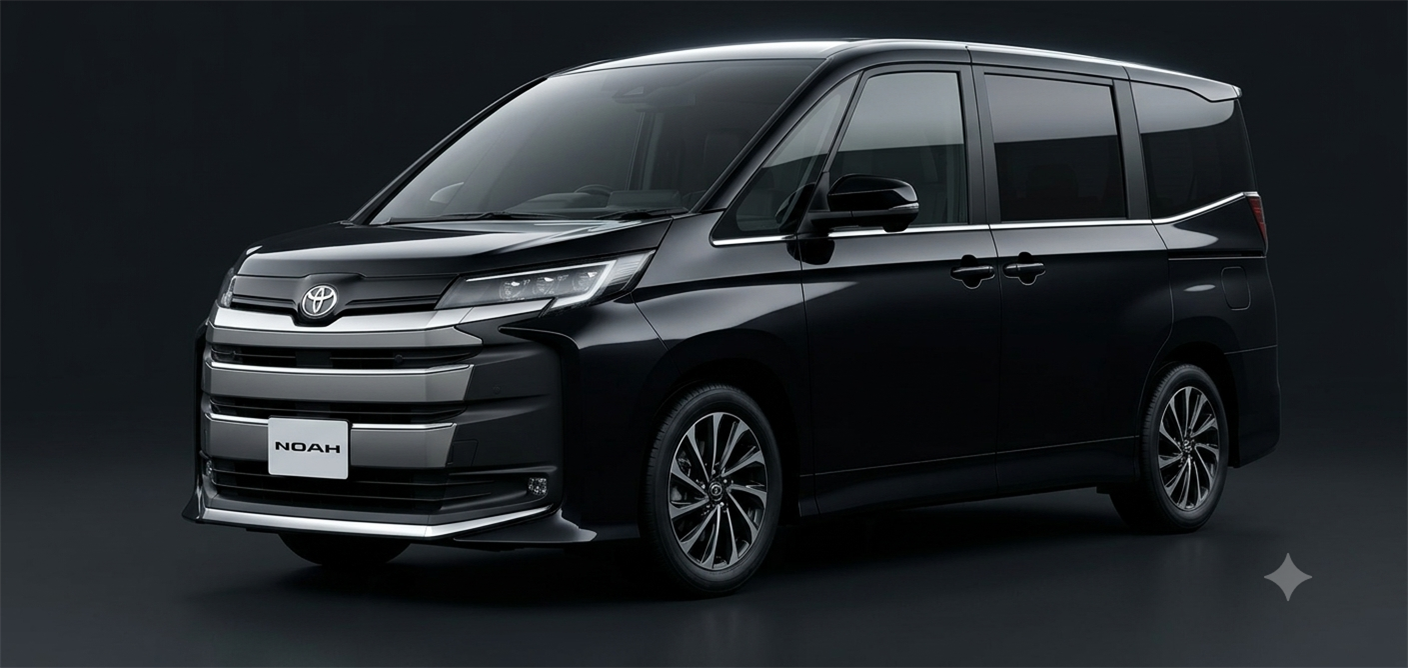
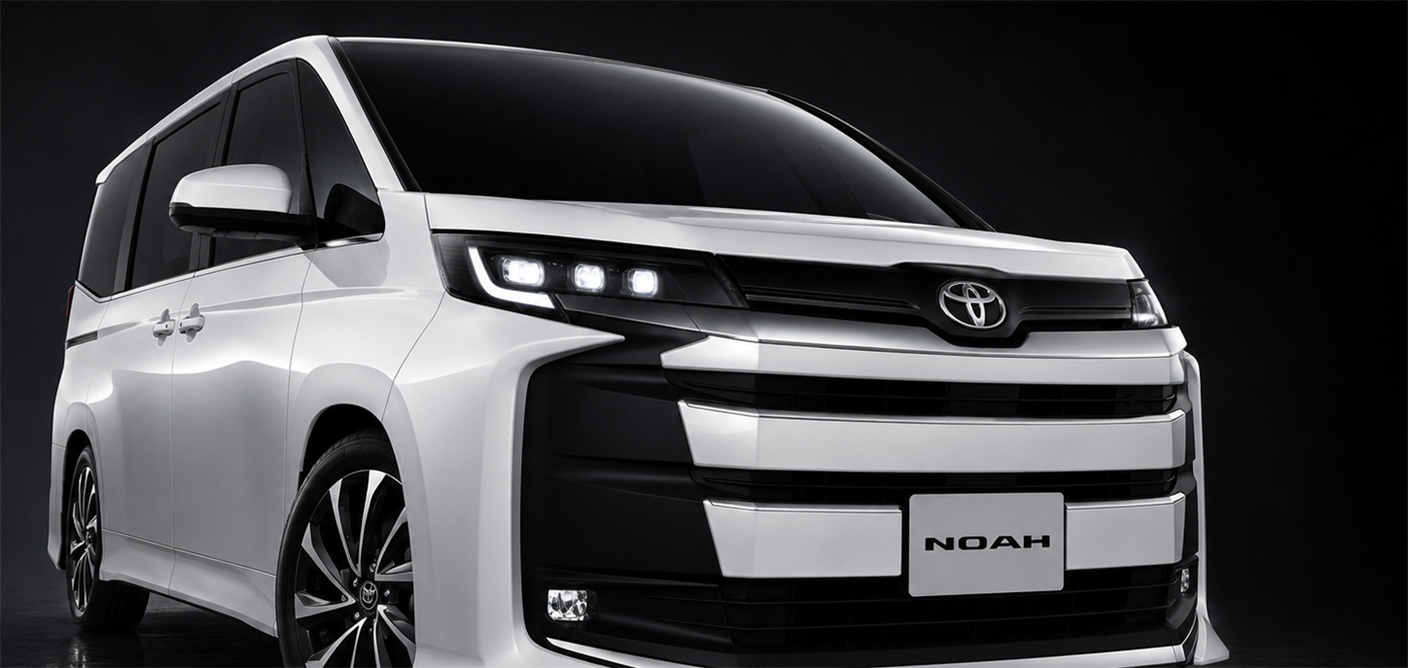
feat: add Vellfire, refresh hero photos, fix VOXY 70系 image, set prod SEO origin
- Add Vellfire (Toyota, Luxury minivan cluster alongside Alphard): 3
  generations (20系/30系/40系), Design Identity sourced from Toyota's
  own official contrast against Alphard ("アグレッシブさの追求" vs
  Alphard's "真のラグジュアリー追求"), added to Home/compare/design
  docs via the existing auto-discovery engine.
- Replace VOXY/Alphard/NOAH/SERENA/STEPWGN hero photos with new
  higher-quality renders.
- Replace VOXY 70系 (gen2) generation photo.
- Point vite.config.js's SITE_ORIGIN at the live Vercel deployment
  instead of the placeholder domain, so canonical/OGP tags resolve
  correctly until a custom domain is set up.

diff --git a/src/cars/vellfire.js b/src/cars/vellfire.js
@@ -1,0 +1,132 @@
+// Pure data. No imports, no logic, no DOM -- this file describes one
+// vehicle and nothing else. All rendering/interaction lives in
+// src/car-page.js; the bootstrap that wires this data into it lives
+// in src/entries/vellfire.js.
+//
+// All facts below (periods, model codes, dimensions, design/facelift
+// content) are drawn from official Toyota catalogs, press releases,
+// and other reliable public sources -- no invented specs. Chassis
+// codes/years verified via goo-net/GAZOO/Toyota FAQ and dealer/press
+// coverage; the 2025-01 facelift (8-seat X grade, PHEV Executive
+// Lounge) matches the "VELLFIRE PHEV" badge visible on the real hero
+// photo used for this vehicle.
+//
+// Annotation x/y/labelX coordinates were tuned against this vehicle's
+// actual generated photos (public/images/cars/vellfire/), following
+// the same front-3/4 composition as Alphard/VOXY.
+const generations = [
+  {
+    numeral: 'I',
+    era: '初代',
+    title: '20系',
+    code: 'ANH20W',
+    startYear: '2008',
+    yearRange: '2008–2015',
+    period: '2008年〜2015年',
+    image: '/images/cars/vellfire/gen1-2008.png',
+    annotations: [
+      { x: 24, y: 46, label: 'メッキ主体の押し出し感のあるグリル', dir: 'bottom', labelX: 24 },
+      { x: 58, y: 14, label: '直線的で張りのあるグリーンハウス', dir: 'top', labelX: 60 },
+    ],
+    facelift: {
+      fromYear: '2008', toYear: '2011',
+      points: ['フロントグリルとバンパーのデザインを一新', 'メッキガーニッシュとグリル下部にダクトを追加', 'より力強い印象のフロントフェイスに刷新'],
+    },
+  },
+  {
+    numeral: 'II',
+    era: '2代目',
+    title: '30系',
+    code: 'AGH30W',
+    startYear: '2015',
+    yearRange: '2015–2023',
+    period: '2015年〜2023年',
+    image: '/images/cars/vellfire/gen2-2015.png',
+    annotations: [
+      { x: 20, y: 48, label: '大型グリルと一体化したヘッドランプ', dir: 'bottom', labelX: 20 },
+      { x: 50, y: 20, label: '鋭く抜けるキャラクターライン', dir: 'top', labelX: 52 },
+    ],
+    facelift: {
+      fromYear: '2015', toYear: '2018',
+      points: ['フロントグリルを縦基調のメッキ加飾グリルに刷新', 'ヘッドライトを薄型のシャープなデザインに変更', 'より個性の際立つ表情に一新'],
+    },
+  },
+  {
+    numeral: 'III',
+    era: '現行モデル',
+    title: '40系',
+    code: '5BA-TAHA40W',
+    startYear: '2023',
+    yearRange: '2023–現在',
+    period: '2023年〜現在',
+    image: '/images/cars/vellfire/gen3-2023.png',
+    annotations: [
+      { x: 22, y: 45, label: '立体的で鋭さのあるダイヤモンドグリル', dir: 'bottom', labelX: 22 },
+      { x: 56, y: 16, label: '逆スラント基調のフロントフェイス', dir: 'top', labelX: 58 },
+    ],
+    facelift: {
+      fromYear: '2023', toYear: '2025',
+      note: '今回の改良では、乗車定員とパワートレインを中心にアップデート。',
+      points: ['Xグレードに8人乗り仕様を追加', '最上級グレードにPHEV(プラグインハイブリッド)を新設定', 'V2H対応で非常用電源としても活用可能に'],
+    },
+  },
+]
+
+export default {
+  eyebrow: 'CARVISTA',
+  vehicleName: 'Vellfire',
+  brand: 'トヨタ',
+  maker: 'Toyota', // English, for grouping cards on the Home page (see src/home.js) -- CSS uppercases it for display
+  order: 6, // Home page display order across Featured Cars + All Cars -- lower shows first
+  // Featured Cards is a curated "start here" set, not every vehicle --
+  // All Cars is the complete catalog regardless of this flag.
+  featured: true,
+  // CarVista Design Identity -- see docs/brand/design-identity.md.
+  // Sourced directly from Toyota's own contrast between the two
+  // Alphard-platform siblings: "ヴェルファイアが掲げるコンセプトは、
+  // 上質さとアグレッシブさの追求...アルファードは、真のラグジュアリー
+  //追求をコンセプトに掲げています" -- Vellfire's own official grade
+  // copy adds "より個性の際立ったエクステリアデザイン" for its
+  // black-and-metallic-accent styling. This is the Luxury minivan
+  // cluster's one sibling pair (see design-identity.md's cluster
+  // table), and the strongest possible source for both vehicles'
+  // Avoid lists at once -- same pattern as NOAH/VOXY.
+  designRole: 'The bold alternative.',
+  designIdentity: ['Bold', 'Aggressive', 'Individual'],
+  // Direct mirror of Alphard's own Design Identity (Presence/Luxury/
+  // Dignified) -- the strongest possible source per design-identity.md's
+  // Avoid-list rule 3 (an official source contrasting the two vehicles
+  // directly), not an invented opposite.
+  designAvoid: ['Elegant', 'Dignified', 'Formal'],
+  // Fixed across every generation's image -- see
+  // docs/brand/design-identity.md. The current (40系) generation ships
+  // in only two colors, Black (no-cost/standard) and Platinum White
+  // Pearl Mica (paid) -- Black is chosen both for being the standard
+  // color and because sourced coverage describes it as conveying
+  // "力強さと高級感" (boldness), matching this vehicle's
+  // Bold/Aggressive register better than the white option would.
+  // "Z Premier" is the mainstream signature-face grade, distinct from
+  // the cabin-focused Executive Lounge halo trim -- same reasoning
+  // Alphard's own representativeGrade choice already applies.
+  representativeGrade: 'Z Premier',
+  representativeColor: 'Black',
+  // Current (40系) generation's approx. overall length -- see
+  // docs/brand/design-identity.md's "What Reference Length is".
+  // Vellfire shares its platform with Alphard and is Toyota's own
+  // official press/spec figure for the current generation (slightly
+  // longer than Alphard's 4945mm due to a deeper front bumper/grille).
+  // Internal production metadata only -- never render this as a spec
+  // on the page.
+  referenceLengthMm: 4995,
+  tagline: 'かたちは、時代を語る。',
+  heroImage: '/images/cars/vellfire/hero-gen3-3q.png',
+  // Drives <title>/description/canonical/OGP/Twitter -- see the
+  // seo-inject plugin in vite.config.js. Nothing else in this page's
+  // <head> is hand-written.
+  seo: {
+    title: 'Vellfire 歴代モデル一覧 — CarVista',
+    description: 'トヨタ ヴェルファイア全3世代を画像で比較。型式・販売期間・デザインの進化が一目でわかる。',
+  },
+  defaultIndex: 2,
+  generations,
+}

diff --git a/cars/vellfire.html b/cars/vellfire.html
@@ -1,0 +1,93 @@
+<!doctype html>
+<html lang="ja">
+  <head>
+    <meta charset="UTF-8" />
+    <meta name="viewport" content="width=device-width, initial-scale=1.0, viewport-fit=cover" />
+    <meta name="theme-color" content="#0b0c0e" />
+    <link rel="icon" type="image/svg+xml" href="/favicon.svg" />
+    <!-- title/description/canonical/OGP/Twitter/JSON-LD are injected at
+         build+dev time by the seo-inject Vite plugin (see vite.config.js),
+         sourced from src/cars/vellfire.js's `seo` field. Do not hand-add
+         them here -- edit the data file instead. -->
+  </head>
+  <body>
+    <!-- CarVista shared vehicle-page skeleton. This structure is
+         identical across every vehicle page (VOXY, Alphard, ...) --
+         all content comes from src/cars/<vehicle>.js (pure data) via
+         src/entries/<vehicle>.js (bootstrap) and src/car-page.js (the
+         engine). To add a new vehicle: copy this file, change only
+         <head> (title/description/OGP/JSON-LD/canonical) and the
+         closing <script src>. Do not hand-edit anything inside <main>. -->
+    <main id="car-page">
+      <header class="hero">
+        <img class="hero-image" id="hero-image" alt="" />
+        <div class="hero-vignette"></div>
+        <div class="hero-copy">
+          <p class="eyebrow" id="hero-eyebrow"></p>
+          <h1 id="hero-title"></h1>
+          <p class="tagline" id="tagline"></p>
+        </div>
+      </header>
+
+      <div class="heritage" id="heritage" aria-hidden="true"></div>
+
+      <nav class="timeline" id="timeline" aria-label="世代を選択"></nav>
+
+      <section class="detail" id="detail" aria-live="polite">
+        <div class="detail-visual">
+          <div class="detail-image-wrap">
+            <img class="detail-image" id="detail-image" alt="" />
+            <div class="detail-dots" id="detail-dots"></div>
+          </div>
+          <div class="detail-callouts" id="detail-callouts"></div>
+        </div>
+        <div class="detail-info">
+          <div class="detail-text">
+            <p class="detail-eyebrow"><span id="detail-numeral"></span><span class="detail-dot">・</span><span id="detail-era"></span></p>
+            <h2 id="detail-title"></h2>
+            <p class="detail-meta"><span id="detail-code"></span><span class="detail-dot">・</span><span id="detail-period"></span></p>
+          </div>
+          <div class="facelift" id="facelift">
+            <button class="facelift-toggle" id="facelift-toggle" type="button" aria-expanded="false" aria-controls="facelift-list">
+              <span id="facelift-from-year"></span>
+              <span class="facelift-arrow">→</span>
+              <span id="facelift-to-year"></span>
+            </button>
+            <p class="facelift-note" id="facelift-note" hidden></p>
+            <ul class="facelift-list" id="facelift-list"></ul>
+          </div>
+        </div>
+      </section>
+
+      <section class="compare" id="compare" aria-label="世代を比較">
+        <div class="compare-tabs" id="compare-tabs"></div>
+        <div class="compare-image-wrap" id="compare-stage">
+          <img class="compare-base" id="compare-base-image" alt="" />
+          <div class="compare-annotations" id="compare-annotations-base"></div>
+          <div class="compare-overlay" id="compare-overlay">
+            <img id="compare-overlay-image" alt="" />
+            <div class="compare-annotations" id="compare-annotations-overlay"></div>
+          </div>
+          <span class="compare-side-label compare-side-label--left" id="compare-label-left"></span>
+          <span class="compare-side-label compare-side-label--right" id="compare-label-right"></span>
+          <div class="compare-divider" id="compare-divider">
+            <span class="compare-handle"></span>
+          </div>
+        </div>
+      </section>
+
+      <!-- CarVista common policy footer. Vehicle-agnostic wording --
+           copy this block verbatim into every vehicle page. Do not name
+           the current vehicle inside it. -->
+      <footer class="policy" aria-label="CarVistaについて">
+        <p class="policy-text">掲載内容は、メーカーの公式カタログやプレスリリースなど、複数の公開情報をもとに制作しています。グレードや特別仕様、地域仕様、年式、一部改良により、実際の仕様と異なる場合があります。</p>
+        <p class="policy-text">各世代の紹介では、その世代を最も象徴する代表的な仕様を基準にしています。最上級グレードや、もっとも販売台数が多いグレードとは限りません。特別仕様車・限定車・グレードごとの細かな違いは、原則として扱っていません。</p>
+        <p class="policy-text">掲載している画像は実車の写真ではありません。複数の公開資料を参考に、世代間の比較がしやすいよう同じ条件でCarVistaが独自に制作したビジュアル表現です。</p>
+        <p class="policy-text">CarVistaは各自動車メーカーとは一切関係のない独立したプロジェクトです。掲載しているメーカー名・車種名・商標は、各権利者に帰属します。(CarVista is an independent editorial project, created with no affiliation to any vehicle manufacturer.)</p>
+        <p class="policy-text policy-text--invite">CarVistaは、みなさんと一緒により正確なアーカイブへ育てていきたいと考えています。気づいた点があれば、ぜひお聞かせください。詳しい制作方針は<a class="policy-link" href="/editorial-policy.html">こちら</a>。<br /><a class="policy-link" href="#" target="_blank" rel="noopener noreferrer">X (Twitter) でお問い合わせ</a><!-- placeholder href pending the real account handle --></p>
+        <p class="policy-meta">最終更新：2026年7月</p>
+      </footer>
+    </main>
+    <script type="module" src="/src/entries/vellfire.js"></script>
+  </body>
+</html>

diff --git a/vite.config.js b/vite.config.js
@@ -10,10 +10,11 @@ const root = fileURLToPath(new URL('.', import.meta.url))
 // string literal, so a future rename touches one line, not several.
 const SITE_NAME = 'CarVista'
 
-// TODO: replace once the production domain is decided -- every
-// canonical/OGP URL below is built from this one constant, so that's
-// the only place a real domain needs to land.
-const SITE_ORIGIN = 'https://carvista.example.com'
+// Temporary production origin -- the Vercel-assigned domain until a
+// custom domain is purchased, at which point this is the only place
+// that needs to change. Every canonical/OGP URL below is built from
+// this one constant.
+const SITE_ORIGIN = 'https://car-evolution-sigma.vercel.app'
 
 // Every file in cars/*.html, plus every other *.html at the project
 // root (editorial-policy.html, and whatever site-wide page comes next),

diff --git a/src/entries/vellfire.js b/src/entries/vellfire.js
@@ -1,0 +1,7 @@
+// Bootstrap only -- wires one vehicle's data into the shared engine.
+// No data, no logic; if you're tempted to add either here, it belongs
+// in src/cars/vellfire.js or src/car-page.js instead.
+import { initCarPage } from '../car-page.js'
+import vellfire from '../cars/vellfire.js'
+
+initCarPage(vellfire)

diff --git a/docs/brand/design-identity.md b/docs/brand/design-identity.md
@@ -73,7 +73,7 @@ Same-maker is not the only place two vehicles compete for the same identity. Car
 | Cluster | Members | Notes |
 |---|---|---|
 | Mainstream family minivan | VOXY, NOAH, SERENA, STEPWGN | The real-world competitive set these four nameplates are actually cross-shopped within, spanning all three of CarVista's current makers. A future addition in this class (e.g. a Toyota Estima) checks against all four, not just same-maker VOXY/NOAH. |
-| Luxury minivan | Alphard | Alone in this cluster today. A future addition here (e.g. a Vellfire, an Elgrand) checks against Alphard specifically, regardless of maker. |
+| Luxury minivan | Alphard, Vellfire | Vellfire (added 2026-07) is Alphard's own platform-sharing sibling -- the real-world case this row was written for. A future addition here (e.g. an Elgrand) checks against both. |
 
 A vehicle belongs to a cluster by what it actually competes against in the real market, not by category label alone — add a new cluster row when a genuinely different segment is added, rather than forcing every future vehicle into one of these two.
 
@@ -95,8 +95,9 @@ A vehicle belongs to a cluster by what it actually competes against in the real 
 | NOAH | Toyota | The composed standard. | Composed, Horizontal, Substantial | Aggressive, Sporty, Edgy | Twin of VOXY by platform and silhouette; the fascia is the one real difference, and official comparison copy names it directly (see below). |
 | SERENA | Nissan | The open family choice. | Family, Friendly, Open | Aggressive, Luxury, Intimidating | Nissan's own long-running family-minivan positioning; first non-Toyota vehicle on the site, and a same-cluster (not same-maker) check against VOXY/NOAH/STEPWGN. |
 | STEPWGN | Honda | The functional essential. | Simple, Clean, Functional | Flashy, Aggressive, Luxury | Sourced directly from Honda's own stated concept for the nameplate — "家族みんなの使い勝手 = ユーティリティをデザインするクルマ造り" (designing a car around everyday family usability). |
+| Vellfire | Toyota | The bold alternative. | Bold, Aggressive, Individual | Elegant, Dignified, Formal | Toyota's own official contrast against its platform-sharing sibling: "ヴェルファイアが掲げるコンセプトは、上質さとアグレッシブさの追求...アルファードは、真のラグジュアリー追求をコンセプト" — the same strength of sourcing as the NOAH/VOXY pair, this time for the Luxury minivan cluster. |
 
-No two vehicles share a Design Identity keyword — checked across the whole Mainstream family minivan cluster (VOXY/NOAH/SERENA/STEPWGN), not only within Toyota — and every Avoid list either mirrors a cluster-mate's own keywords (catching collisions structurally, not just at review time) or is sourced from an official contrast.
+No two vehicles share a Design Identity keyword within the same cluster — checked across the whole Mainstream family minivan cluster (VOXY/NOAH/SERENA/STEPWGN) and the Luxury minivan cluster (Alphard/Vellfire) separately, not only within one maker — and every Avoid list either mirrors a cluster-mate's own keywords (catching collisions structurally, not just at review time) or is sourced from an official contrast. (Vellfire's "Aggressive" is not a collision with VOXY's own "Aggressive" — they sit in different clusters, per the cluster-scoped check this document itself defines.)
 
 | Vehicle | Representative Grade | Representative Color | Why |
 |---|---|---|---|
@@ -105,10 +106,12 @@ No two vehicles share a Design Identity keyword — checked across the whole Mai
 | NOAH | Standard model | White Pearl Crystal Shine | The standard grade is the one this vehicle's whole Design Identity revision is grounded in (see above). White is sourced as softening/calming a body's read — the color equivalent of "Composed." |
 | SERENA | Standard model | White Pearl | Base "X" grade, not the sportier Highway STAR trim, matching the Family/Friendly register; white avoids the heavier, more formal impression black carries on this vehicle. |
 | STEPWGN | AIR | Platinum White Pearl | "AIR" is this generation's own standard nameplate, distinct from the sportier SPADA trim already ruled out by this vehicle's Avoid list. Platinum White Pearl is sourced as this nameplate's most popular color, described in terms of reassuring, standard-choice confidence — matching Simple/Clean directly. |
+| Vellfire | Z Premier | Black | The current (40系) generation ships in only two colors, Black (standard/no-cost) and Platinum White Pearl Mica (paid) — Black is sourced as conveying "力強さと高級感" (boldness), matching Bold/Aggressive better than the white option. Z Premier is the mainstream signature-face grade, distinct from the cabin-focused Executive Lounge halo trim — same reasoning as Alphard's own Z choice. |
 
 | Vehicle | Reference Length (current gen, approx.) | Cluster position |
 |---|---|---|
-| Alphard | ~4945mm | Luxury minivan — largest on the roster; should read ~5-10% bigger in frame than the Mainstream cluster below, camera/floor held identical. |
+| Vellfire | ~4995mm | Luxury minivan — Toyota's own current-gen spec figure; slightly longer than Alphard due to a deeper front bumper/grille, otherwise shares Alphard's platform. |
+| Alphard | ~4945mm | Luxury minivan — should read ~5-10% bigger in frame than the Mainstream cluster below, camera/floor held identical. |
 | VOXY | ~4695mm | Mainstream family minivan — same platform/length as NOAH. |
 | NOAH | ~4695mm | Mainstream family minivan — same platform/length as VOXY. |
 | SERENA | ~4765mm | Mainstream family minivan — Nissan's own nameplate, close to but not identical to the Toyota pair; the small real difference is fine to show, not something to force to exact parity. |
